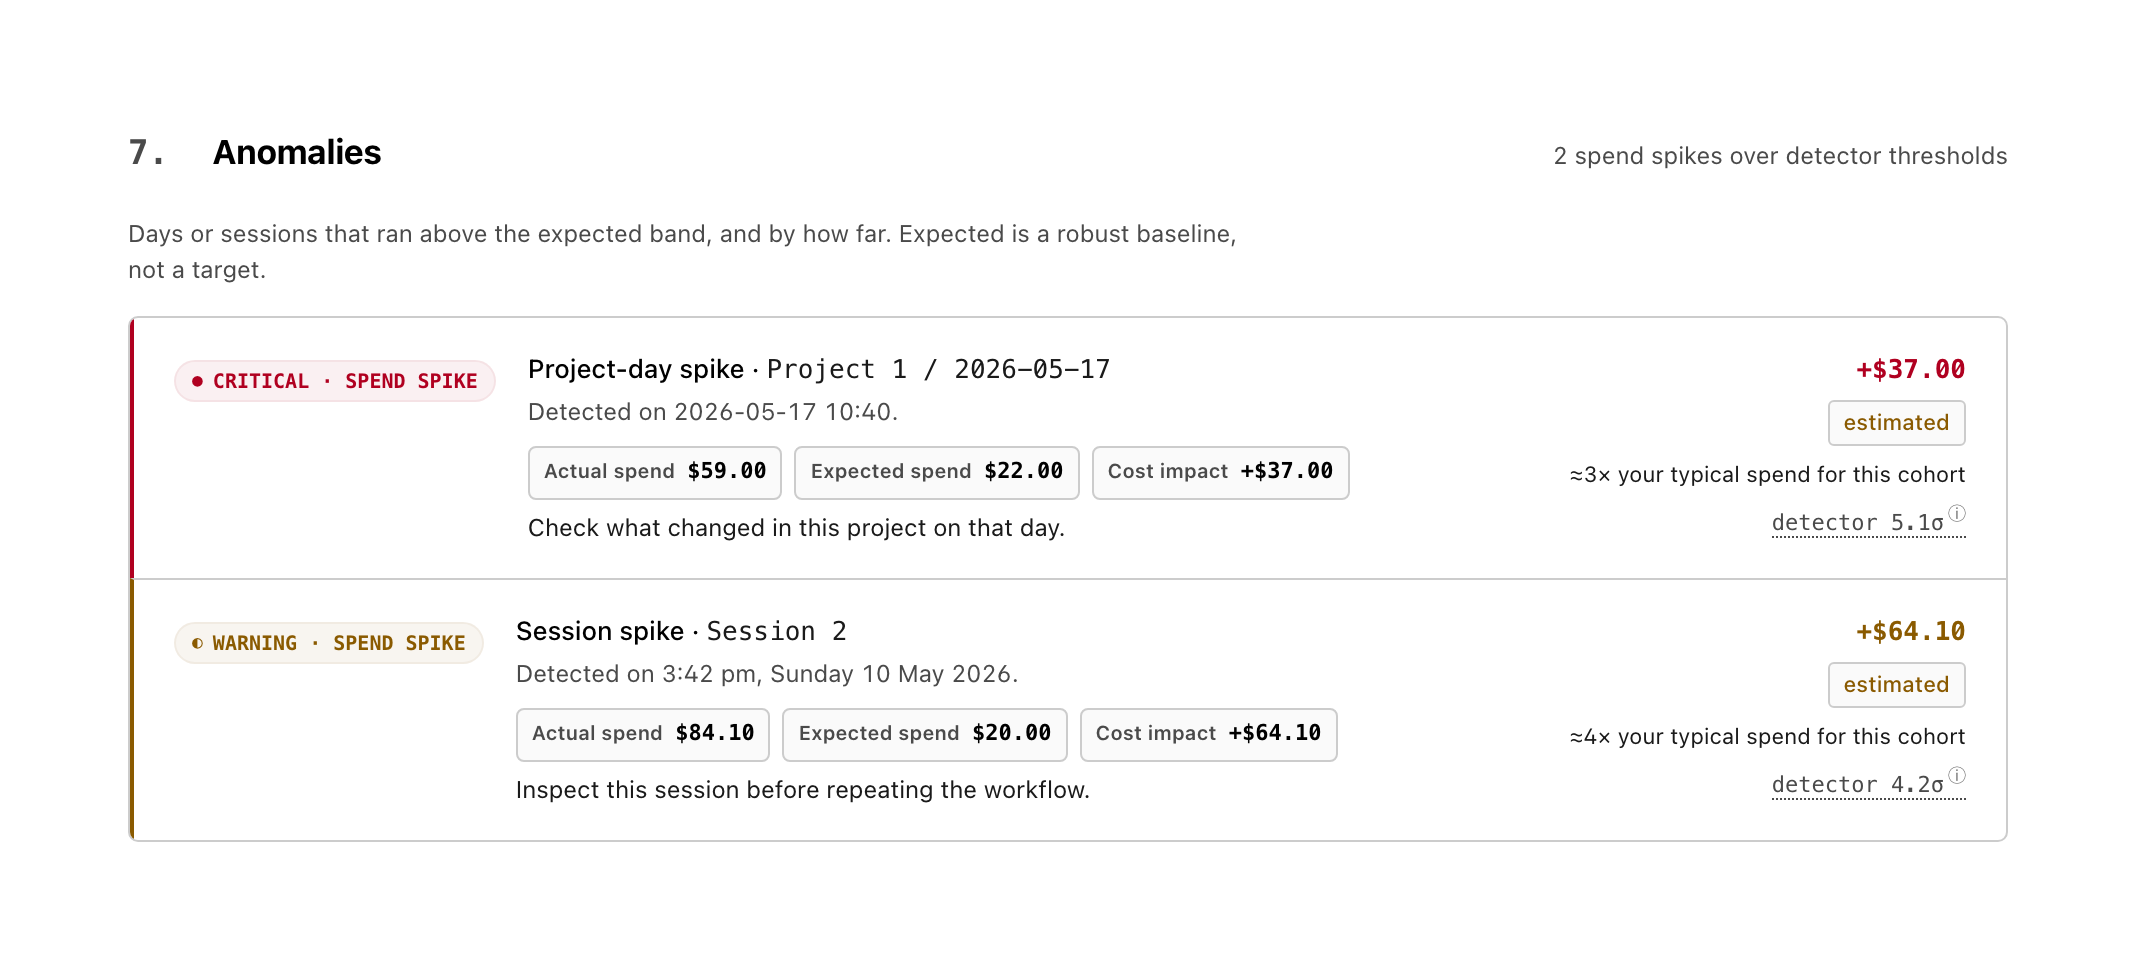
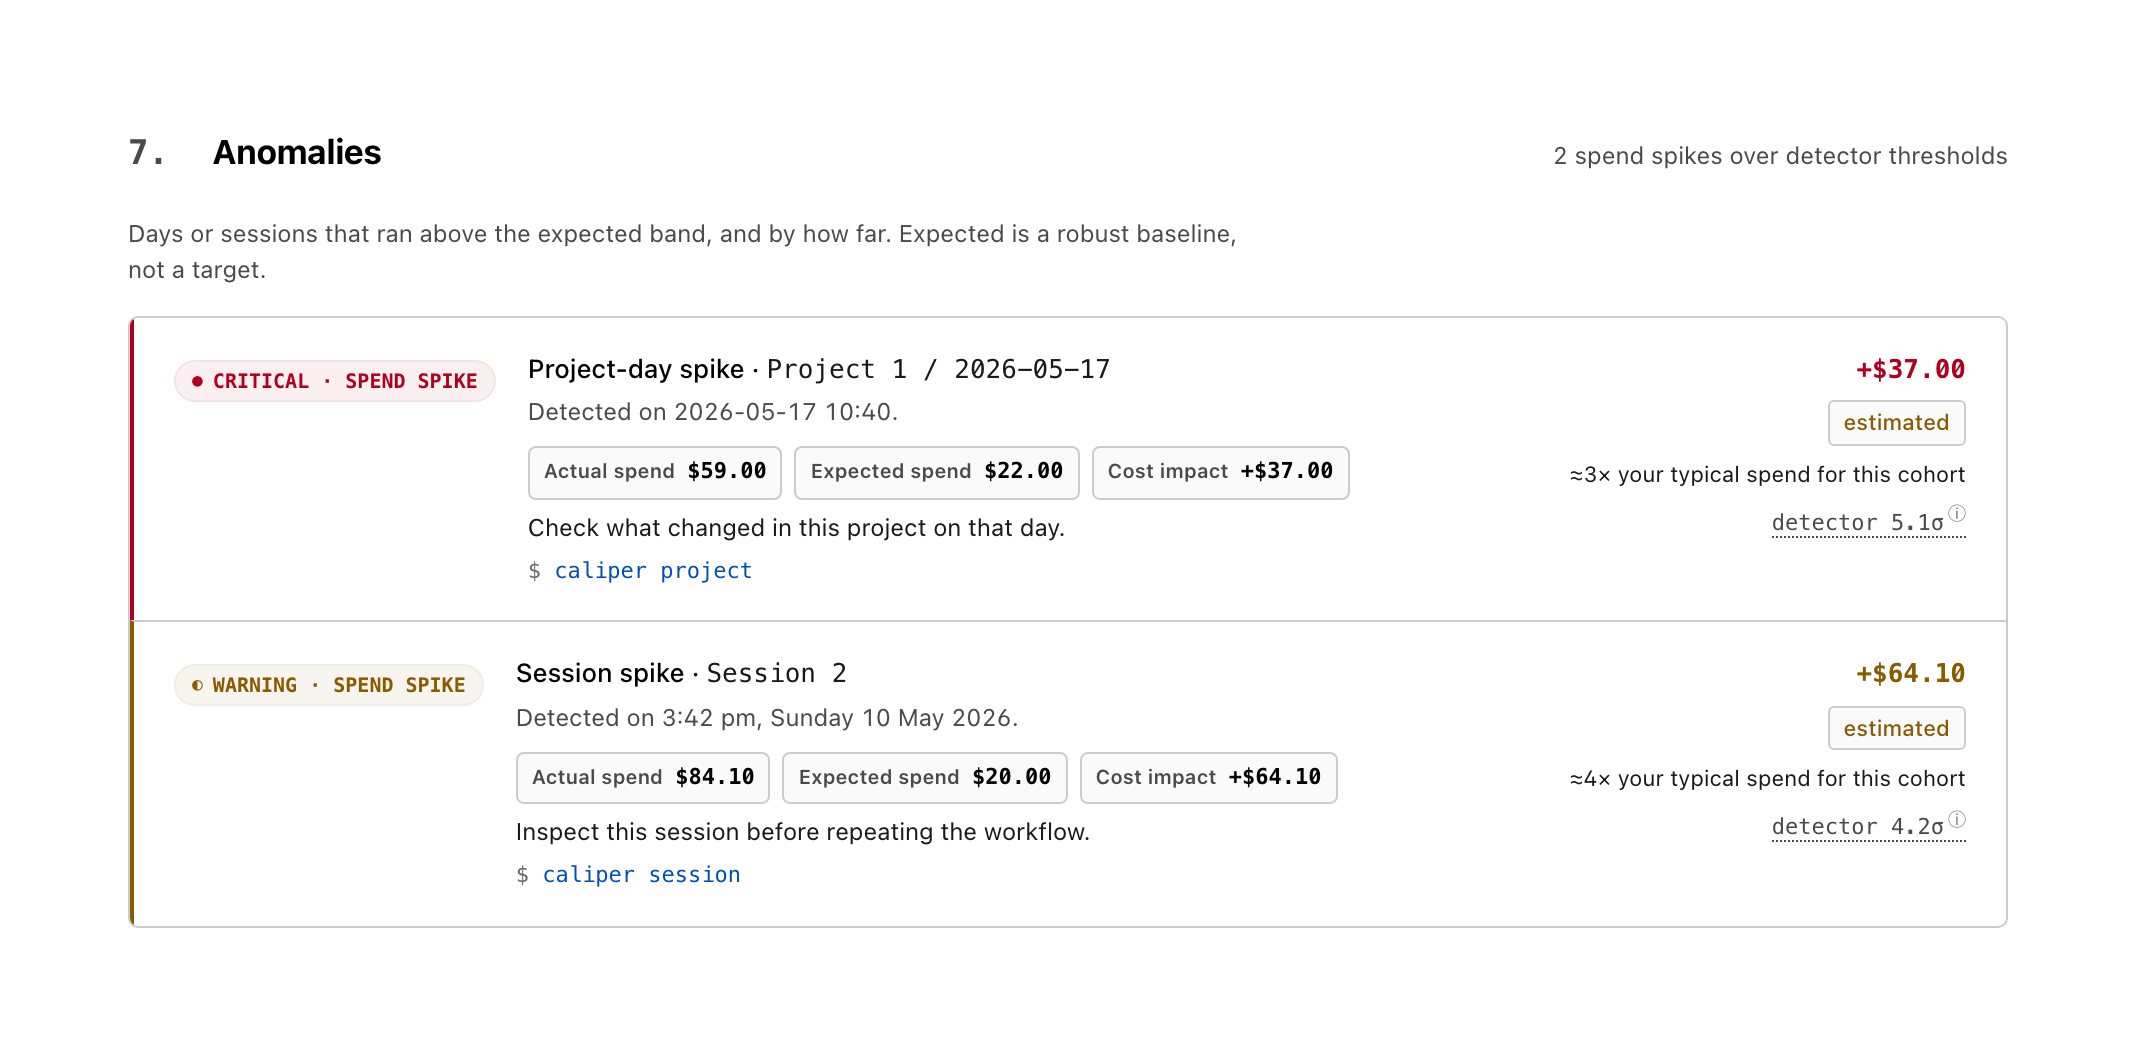
0.0.69: anomalies tell you where to look next (#27)
Every anomaly row now ends in a copyable drill-in command — a project-day
spike points at `caliper project`, a session spike at `caliper session`, a
model spike at `caliper models`, anything else at the single-day overview.
The spike was already named; now the next step is one paste away.

The README dashboard tour gains the anomalies screenshot (the one flagged
section it was missing), regenerated alongside the others.

diff --git a/tests/test_dashboard_html.py b/tests/test_dashboard_html.py
@@ -19,6 +19,7 @@ from caliper.dashboards.html import (
     INLINE_STYLES,
     SECTION_NUMBERS,
     _agent_display_label,
+    _anomaly_command,
     fmt_money,
     fmt_tokens,
     render_models,
@@ -485,6 +486,24 @@ def test_anomaly_rows_use_constructive_copy_without_scale_noise() -> None:
     assert "+400%" in html
     assert 'class="cal-anomaly-row"' in html
     assert 'class="cal-metric-chip"' in html
+
+
+def test_anomaly_command_maps_kind_to_the_drilldown_command() -> None:
+    # Each anomaly kind points at the command that opens its source.
+    assert _anomaly_command("Session spike") == "caliper session"
+    assert _anomaly_command("Project-day spike") == "caliper project"
+    assert _anomaly_command("Model cost spike") == "caliper models"
+    assert _anomaly_command("Commit spike") == "caliper commit"
+    # Anything else falls back to the single-day overview.
+    assert _anomaly_command("Daily total spike") == "caliper overview --days 1"
+
+
+def test_anomaly_rows_carry_a_copyable_drilldown_command() -> None:
+    dashboard = sample_dashboard()
+    html = render_dashboard(dashboard)
+    # Every anomaly row ends in the command that drills into its source.
+    for anomaly in dashboard.anomalies:
+        assert _anomaly_command(anomaly.kind) in html
 
 
 def test_dashboard_renders_curated_sections_in_order() -> None:

diff --git a/src/caliper/dashboards/html.py b/src/caliper/dashboards/html.py
@@ -3725,6 +3725,20 @@ def _anomaly_action(kind: str) -> str:
     return "Review this day before using it as a run-rate baseline."
 
 
+def _anomaly_command(kind: str) -> str:
+    """The command that drills straight into the source of a spike."""
+    normalized = kind.lower()
+    if "session" in normalized:
+        return "caliper session"
+    if "project" in normalized:
+        return "caliper project"
+    if "model" in normalized:
+        return "caliper models"
+    if "commit" in normalized:
+        return "caliper commit"
+    return "caliper overview --days 1"
+
+
 def _section_anomalies(d: Dashboard, *, dense: bool, rhythm: str, pm: _PrivacyMap) -> str:
     if not d.anomalies:
         return ""
@@ -3777,6 +3791,9 @@ def _section_anomalies(d: Dashboard, *, dense: bool, rhythm: str, pm: _PrivacyMa
             f"{_esc(comparison)}</div>"
             f"{metrics_html}"
             f'<div style="color:var(--ink-2);font-size:12px;margin-top:5px">{_esc(action)}</div>'
+            '<div style="font-family:var(--mono);font-size:11px;color:var(--accent);'
+            'margin-top:5px;overflow-wrap:anywhere">'
+            f'<span style="color:var(--ghost)">$ </span>{_esc(_anomaly_command(a.kind))}</div>'
             "</div>"
             '<div class="cal-anomaly-side" style="display:flex;flex-direction:column;align-items:flex-end;gap:6px">'
             f'<span style="font-size:13px;color:{tone_color};font-family:var(--mono);'

diff --git a/CHANGELOG.md b/CHANGELOG.md
@@ -2,6 +2,18 @@
 
 All notable changes to Caliper. Newest on top.
 
+## 0.0.69 - 2026-05-28
+
+Anomalies tell you where to look next.
+
+- **Every anomaly row ends in a copyable drill-in command.** A project-day
+  spike points at `caliper project`, a session spike at `caliper session`, a
+  model spike at `caliper models`, and anything else at the single-day
+  overview. The spike was already named; now the next step is one paste away.
+- **The README tour shows the anomalies section.** It was the one flagged
+  section missing from the screenshots, so the regenerated tour now includes
+  it alongside avoidable spend.
+
 ## 0.0.68 - 2026-05-28
 
 Every section now says how to read it.

diff --git a/README.md b/README.md
@@ -128,9 +128,15 @@ real report layout without exposing local paths or session identities.
 |---|---|
 | <img alt="Cost by repository or folder" src="https://raw.githubusercontent.com/rajdeepmondaldotcom/caliper/main/docs/screenshots/projects.png"> | <img alt="Session drilldown table with redacted session labels, started time, project, cost, tokens, tools, models, and reason" src="https://raw.githubusercontent.com/rajdeepmondaldotcom/caliper/main/docs/screenshots/sessions.png"> |
 
-| Avoidable spend | Attribution |
+| Anomalies | Avoidable spend |
 |---|---|
-| <img alt="Ranked avoidable-spend findings with re-pricing caveats and cache reuse panels" src="https://raw.githubusercontent.com/rajdeepmondaldotcom/caliper/main/docs/screenshots/inefficiencies.png"> | <img alt="Attribution panels for agents, skills, tier sources, and the long-context boundary" src="https://raw.githubusercontent.com/rajdeepmondaldotcom/caliper/main/docs/screenshots/attribution.png"> |
+| <img alt="Spend spikes above the expected band, each with actual vs expected spend, cost impact, the detector sigma, and a copyable drill-in command" src="https://raw.githubusercontent.com/rajdeepmondaldotcom/caliper/main/docs/screenshots/anomalies.png"> | <img alt="Ranked avoidable-spend findings with re-pricing caveats and cache reuse panels" src="https://raw.githubusercontent.com/rajdeepmondaldotcom/caliper/main/docs/screenshots/inefficiencies.png"> |
+
+Anomalies flag the days and sessions that ran above their expected band, and
+each row ends in the command that opens its source — paste it and you are
+looking at the cause, not just the spike.
+
+![Attribution panels for agents, skills, tier sources, and the long-context boundary](https://raw.githubusercontent.com/rajdeepmondaldotcom/caliper/main/docs/screenshots/attribution.png)
 
 ## How it's different
 

diff --git a/SECURITY.md b/SECURITY.md
@@ -13,8 +13,8 @@ fixes.
 
 | Version | Supported |
 | ------- | --------- |
-| `0.0.68` | yes |
-| `< 0.0.68` | no |
+| `0.0.69` | yes |
+| `< 0.0.69` | no |
 
 The `1.0` release will introduce a longer support window and a published
 deprecation policy. Until then, please upgrade promptly.